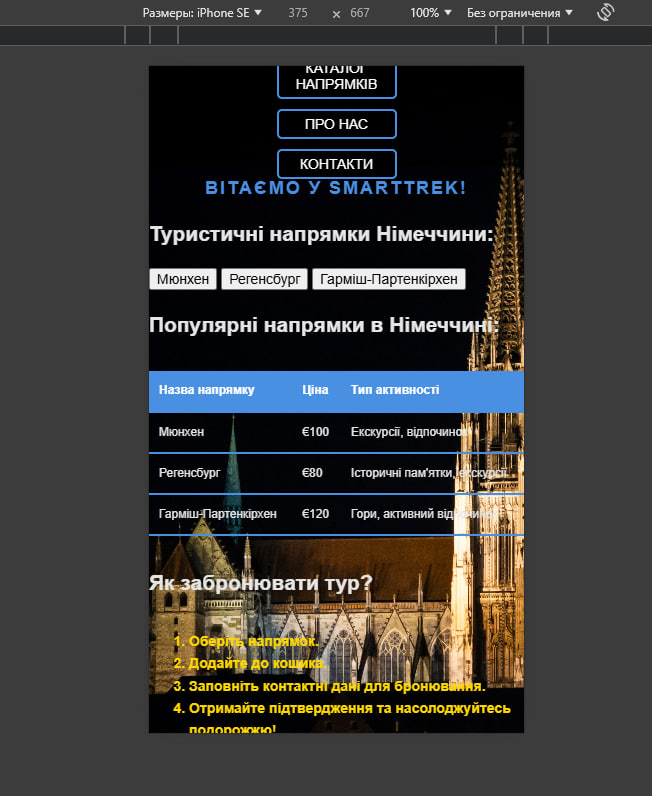
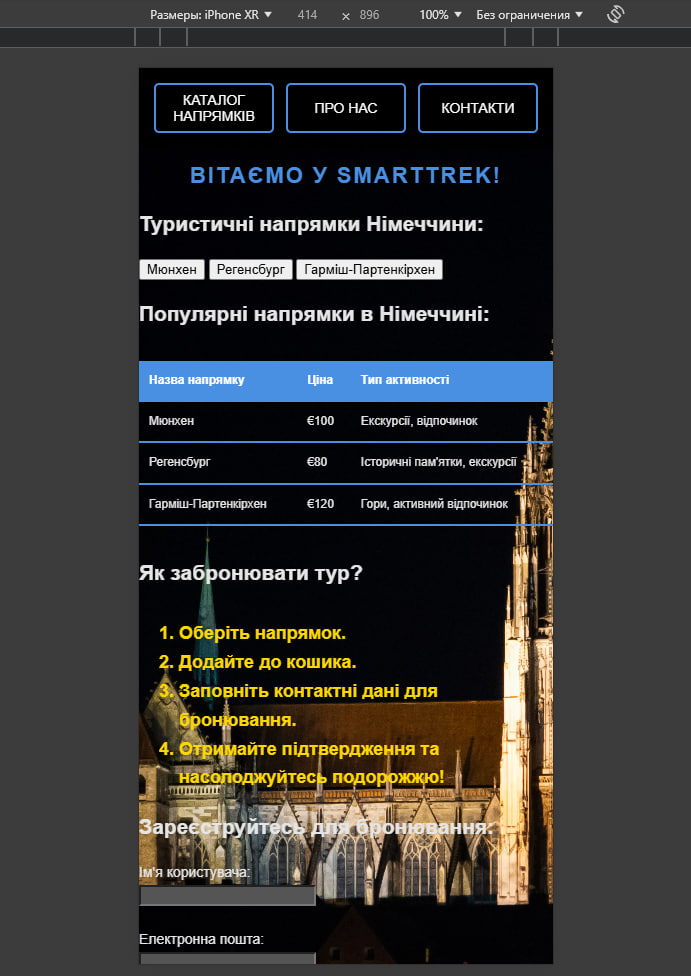
add

diff --git a/lab4/tablet.html b/lab4/tablet.html
@@ -39,7 +39,76 @@
             <img src="screenshots/tablet.jpg" alt="mobile code" width="370px" height="432px">
             <p>Код стилю планшетної версії</p>
             <pre>
-                CSS
+                /* Медиазапрос для планшетных устройств (от 768px до 1024px) */
+@media screen and (max-width: 1024px) and (min-width: 768px) {
+
+    /* Шапка */
+    .header {
+        height: 120px; /* Уменьшаем высоту шапки */
+        padding: 0 15px; /* Уменьшаем отступы */
+        flex-direction: column; /* Располагаем элементы в колонку для лучшей видимости */
+        justify-content: center;
+        align-items: center;
+    }
+
+    /* Кнопки в шапке */
+    .header .button {
+        width: 150px; /* Уменьшаем ширину кнопок */
+        height: 100px; /* Уменьшаем высоту кнопок */
+        padding: 10px; /* Уменьшаем внутренние отступы */
+        font-size: 16px; /* Уменьшаем размер шрифта */
+        margin: 5px 0; /* Уменьшаем отступы между кнопками */
+    }
+
+    /* Заголовки */
+    h1 {
+        font-size: 22px; /* Уменьшаем размер заголовка */
+    }
+
+    /* Списки */
+    .destination-list {
+        margin-left: 10px; /* Уменьшаем отступы слева */
+    }
+
+    /* Таблица */
+    table {
+        width: 100%; /* Расширяем таблицу на всю ширину */
+        margin-top: 20px; /* Уменьшаем верхний отступ */
+    }
+
+    /* Ячейки таблицы */
+    .destination-table th, .destination-table td {
+        padding: 12px; /* Уменьшаем отступы внутри ячеек */
+    }
+
+    /* Кнопки для выбора направления */
+    .destination-button {
+        padding: 10px 20px; /* Уменьшаем отступы кнопок */
+        font-size: 16px; /* Уменьшаем шрифт кнопок */
+    }
+
+    /* Формы */
+    .booking-form input {
+        padding: 10px; /* Уменьшаем отступы в полях ввода */
+        font-size: 14px; /* Уменьшаем размер шрифта в полях */
+    }
+
+    /* Кнопка отправки формы */
+    #booking-form-submit {
+        width: 100%; /* Ширина кнопки на весь экран */
+        font-size: 16px; /* Уменьшаем шрифт */
+    }
+    
+    /* Шаги бронирования */
+    .booking-steps {
+        font-size: 16px; /* Уменьшаем размер шрифта */
+    }
+
+    /* Footer */
+    footer {
+        font-size: 14px; /* Уменьшаем шрифт в футере */
+    }
+}
             </pre>
         </div>
     </div>

diff --git a/lab4/mobile.html b/lab4/mobile.html
@@ -39,7 +39,74 @@
             <img src="screenshots/mobile.jpg" alt="mobile code" width="307px" height="431px">
             <p>Код стилю мобільної версії</p>
             <pre>
-                CSS</pre>
+                /* Для телефонов (например, 320px до 599px) */
+@media (max-width: 599px) {
+  body {
+    font-size: 14px; /* Уменьшаем шрифт для телефонов */
+    margin: 0;
+    padding: 0;
+  }
+
+  h1 {
+    font-size: 22px; /* Уменьшаем размер заголовка */
+    word-wrap: break-word; /* Переносим длинные строки */
+    line-height: 1.2; /* Уменьшаем межстрочное расстояние */
+    text-align: center; /* Центрируем заголовок */
+  }
+
+  .header {
+    height: 80px;
+    padding: 0 10px;
+    display: flex;
+    align-items: center;
+    justify-content: space-between;
+  }
+
+  .header .button {
+    width: 120px; /* Уменьшаем кнопки */
+    height: 50px;
+    font-size: 14px;
+    padding: 5px;
+  }
+
+  .welcome-text {
+    font-size: 18px; /* Уменьшаем размер текста "Вітаємо" */
+    text-align: center; /* Центрируем текст */
+    padding: 20px; /* Добавляем отступы для удобства */
+    word-break: break-word; /* Принудительный перенос длинных слов */
+    line-height: 1.4;
+  }
+
+  .about-section {
+    font-size: 14px; /* Уменьшаем текст в блоках */
+    line-height: 1.5;
+    padding: 10px;
+  }
+
+  .about-us {
+    padding: 10px;
+    font-size: 14px;
+    text-align: justify;
+  }
+
+  /* Уменьшаем размер таблицы и ячеек */
+  table {
+    width: 100%; /* Полная ширина таблицы */
+    font-size: 12px;
+  }
+
+  .destination-table th, .destination-table td {
+    padding: 10px;
+    font-size: 12px; /* Уменьшаем шрифт в ячейках */
+  }
+
+  /* Уменьшаем размер шрифта для футера */
+  footer {
+    font-size: 14px;
+    padding: 15px;
+  }
+}
+</pre>
         </div>
     </div>
 </body>

diff --git a/lab4/topic.html b/lab4/topic.html
@@ -37,9 +37,9 @@
         <div class="content" style="margin-top:20px;">
             <p>Тема: АДАПТИВНА ВЕРСТКА. МЕДІА-ЗАПИТИ. МЕТАТЕГ VIEWPORT. СТРАТЕГІЯ MOBILE FIRST.  </p>
             <p>Мета:Адаптивна верстка. Медіа-запити. Медіа-типи. Медіа-функції.Метатег viewport. Інструменти розробника. Стратегія Mobile First. </p>
-            <p> Посилання на репозиторій: <a href="---------------">---------------</a></p>
-            <p> Посилання на репозиторій звіту: <a href="https://github.com/sataandagii/IC-34-Honcharenko-Zvit">https://github.com/sataandagii/IC-34-Honcharenko-Zvit</a></p>
-            <p> Посилання на живу сторінку: <a href="------------------">---------------</a></p>
+            <p> Посилання на репозиторій: <a href="https://github.com/Artem12345xx917/IC-34-Kudriavtsev-Lab4">https://github.com/Artem12345xx917/IC-34-Kudriavtsev-Lab4</a></p>
+            <p> Посилання на репозиторій звіту: <a href="https://github.com/Artem12345xx917/IC-34-Kudriavtsev-Zvit/tree/main">https://github.com/Artem12345xx917/IC-34-Kudriavtsev-Zvit/tree/main</a></p>
+            <p> Посилання на живу сторінку: <a href="https://artem12345xx917.github.io/IC-34-Kudriavtsev-Lab4/">https://artem12345xx917.github.io/IC-34-Kudriavtsev-Lab4/</a></p>
         </div>
     </div>
 </body>
